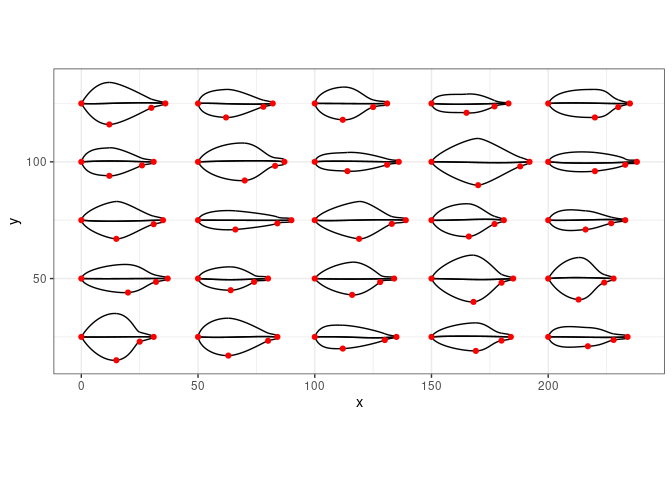
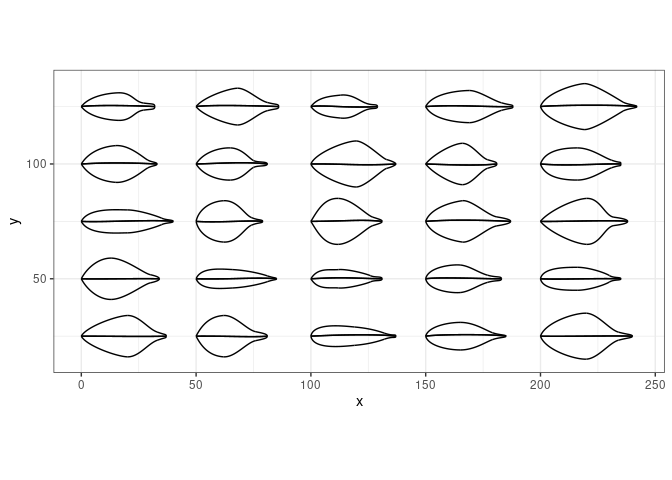
update readme

Changed region(s): [[0.0312, 0.125, 1.0, 0.8125], [0.2812, 0.1875, 0.4375, 0.4062]]

diff --git a/README.md b/README.md
@@ -19,56 +19,117 @@ You can install the released version of benjaminileaves from
 [CRAN](https://CRAN.R-project.org) with:
 
 ``` r
-install.packages("benjaminileaves")
+# install.packages("remotes")
+# (if not installed yet)
+
+remotes::install_github("urswilke/benjaminileaves")
 ```
 
-## Example
+## Generate benjamini leaves with bezier curves
 
-This is a basic example which shows you how to solve a common problem:
+This package is just to generate shapes in the form of ficus benjamina
+leaves with bezier curves. To demonstrate we’ll first load some
+packages:
 
 ``` r
 library(benjaminileaves)
 library(purrr)
 library(dplyr)
-#> 
-#> Attaching package: 'dplyr'
-#> The following objects are masked from 'package:stats':
-#> 
-#>     filter, lag
-#> The following objects are masked from 'package:base':
-#> 
-#>     intersect, setdiff, setequal, union
 library(tidyr)
 library(ggplot2)
+set.seed(123)
 ```
 
-What is special about using `README.Rmd` instead of just `README.md`?
-You can include R chunks like so:
+## Illustration of the generated data
+
+The package generates bezier curves that imitate the shape of the leaves
+of a ficus benjamini. The main function is `get_bezier_df()` which
+results in a dataframe where i denotes the id of the bezier curve, and x
+& y point coordinates:
 
 ``` r
-l_points <- expand_grid(
-  x = seq(0, 200, 50),
-  y = seq(25, 125, 25)
+df <- get_bezier_df()
+df
+#> # A tibble: 32 × 3
+#>    i         x     y
+#>    <chr> <dbl> <dbl>
+#>  1 1        10  40  
+#>  2 1        12  34  
+#>  3 1        19  31.3
+#>  4 1        24  31  
+#>  5 2        24  31  
+#>  6 2        29  30.7
+#>  7 2        34  37.5
+#>  8 2        36  38.1
+#>  9 3        36  38.1
+#> 10 3        38  38.6
+#> # … with 22 more rows
+```
+
+The meaning is best illustrated with a plot:
+
+``` r
+segments <- df %>% 
+  group_by(i) %>% 
+  mutate(j = c(1, 2, 1, 2)) %>%
+  ungroup() %>% 
+  pivot_wider(
+    names_from = j,
+    values_from = c(x, y),
+    values_fn = list
+  ) %>% 
+  unnest(c(x_1, x_2, y_1, y_2))
+
+ggplot(df, aes(x = x, y = y)) + 
+  geom_point(color = "red") +
+  geom_point(data = df %>% group_by(i) %>% slice(c(1, 4)), color = "blue", size = 2) +
+  geom_point(data = df %>% slice(1), color = "black", size = 3) +
+  ggforce::geom_bezier(aes(group = i, color = i)) +
+  geom_segment(
+    data = segments, 
+    aes(
+      x = x_1, 
+      xend = x_2, 
+      y = y_1, 
+      yend = y_2
+    ), 
+    linetype = "dotted", 
+    color = "red"
+  ) +
+  coord_equal() +
+  theme_minimal()
+```
+
+<img src="man/figures/README-def-1.png" width="100%" />
+
+The black point represents the leaf base. This and the blue points
+denote the start/end points of the bezier curves, and the red dots the
+positions of the control points. The leaf is cut in two halves by the
+lines “4” and “4r” (which are the same and represent the midvein of the
+leaf). The exact dimensions of these coordinates generated by random
+numbers in the a certain range (see the definition of
+`get_bezier_df()`).
+
+## Illustration of the randomness
+
+In order to show the variations of the `get_bezier_df()` (if parameters
+are not explicitly specified), let’s only pass the position of the leaf
+bases and let the function randomly generate the rest of the shapes:
+
+``` r
+dfb <- expand_grid(
+    x = seq(0, 200, 50),
+    y = seq(25, 125, 25)
 ) %>%
   transpose() %>%
-  map(~gen_benjamini_points(.x$x, .x$y))
-l_slopes <-
-  1:25 %>%
-  map(~gen_benjamini_slopes())
-
-dfb <- map2_dfr(
-  l_points,
-  l_slopes,
-  get_bezier_df,
-  .id = "leaf"
-) %>%
+  map_dfr(~get_bezier_df(gen_benjamini_points(.x$x, .x$y)), .id = "leaf") %>%
   unite(i, i, leaf)
 
 ggplot(dfb) +
   ggforce::geom_bezier(aes(x = x, y = y, group = i)) +
-  geom_point(data = l_points %>% bind_rows(), aes(x = x, y = y), color = "red") +
+  # geom_point(data = l_points %>% bind_rows(), aes(x = x, y = y), color = "red") +
   coord_equal() +
   theme_bw()
 ```
 
-<img src="man/figures/README-plotbenjamini-1.png" width="100%" />
+<img src="man/figures/README-plotlotsofbenjamini-1.png" width="100%" />
